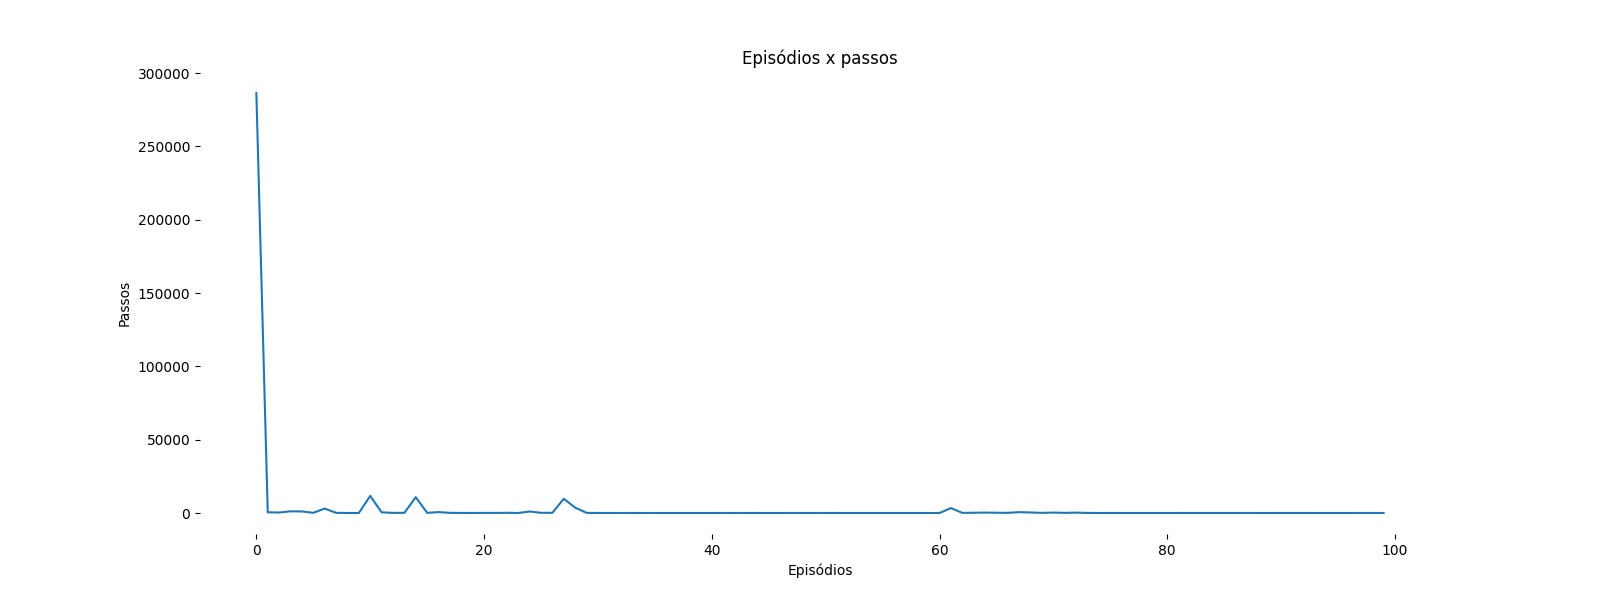
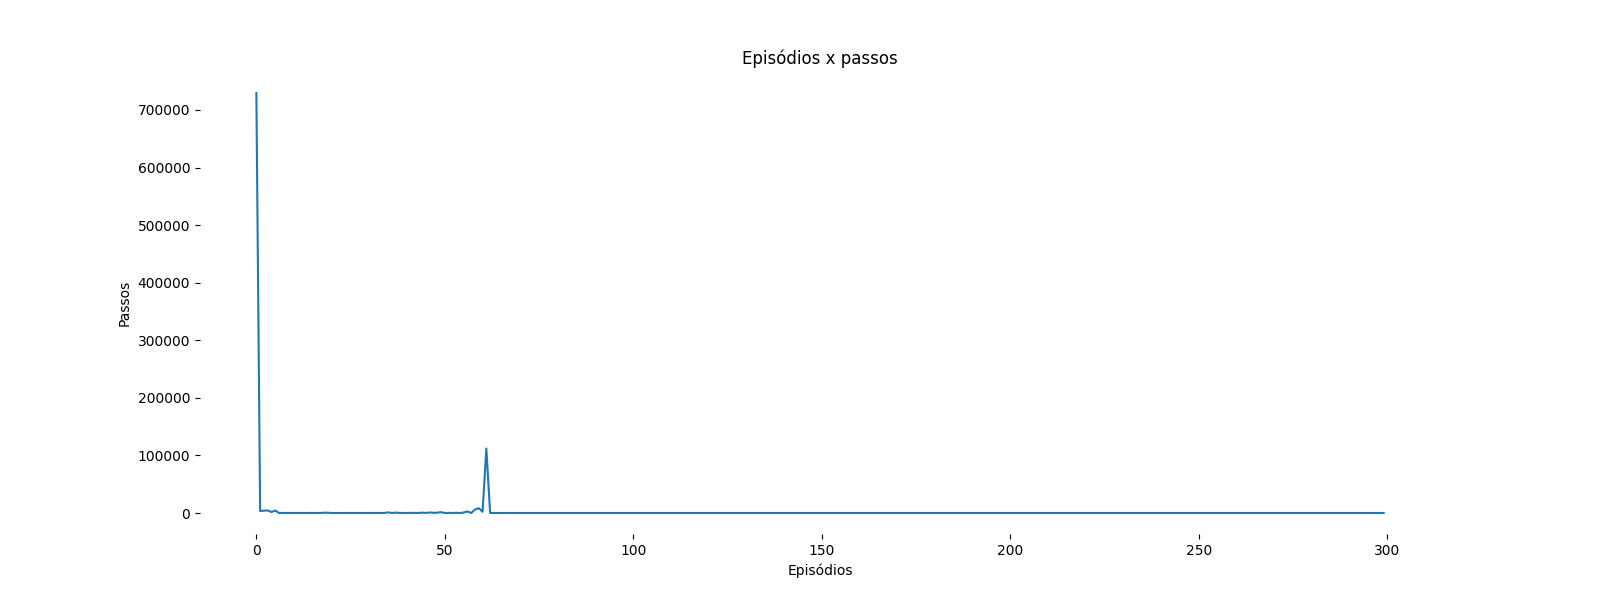
Adicionado ajustes.

diff --git a/tests/teste.py b/tests/teste.py
@@ -4,6 +4,7 @@ import matplotlib.pyplot as plt
 from qlearning.estado import Estado
 from qlearning.agente import Agente
 
+
 if __name__ == "__main__":
 
     agente = Agente(
@@ -12,9 +13,14 @@ if __name__ == "__main__":
         decaimento_gama=0.9
     )
     
-    agente.executar(100, verbose=False)
+    agente.executar(300, verbose=False)
 
-    ax = pd.DataFrame(agente.resumo).set_index('episodio').plot(kind='line', figsize=(16,6))
+    # relatório
+    df_resumo = pd.DataFrame(agente.resumo)
+    print('Passos máximos:', df_resumo.passos.max())
+    print('Passos mínimos:', df_resumo.passos.min())
+
+    ax = df_resumo.set_index('episodio').plot(kind='line', figsize=(16,6))
     ax.set_title('Episódios x passos')
     ax.get_legend().remove()
     ax.set_ylabel("Passos")

diff --git a/qlearning/agente.py b/qlearning/agente.py
@@ -1,6 +1,7 @@
 import numpy as np
 from typing import Tuple, List, Dict
 from qlearning.estado import Estado
+import time
 
 class Agente:
     
@@ -100,6 +101,7 @@ class Agente:
         episodio = 0
         passos = 0
         self.agarrou_objeto = False
+        start = time.time()
         while episodio < episodios:
             if self.agarrou_objeto and self.estado.entregou_objeto:
                 self._propagar_recompensa()
@@ -121,3 +123,6 @@ class Agente:
                     print(f"{msg} próxima posição em {self.estado.estado}.")
                 self.entregou = self.estado.entregou_objeto
                 passos += 1
+        end = time.time()
+
+        print(f"Tempo de processamento: {int(end-start)} segundos")
